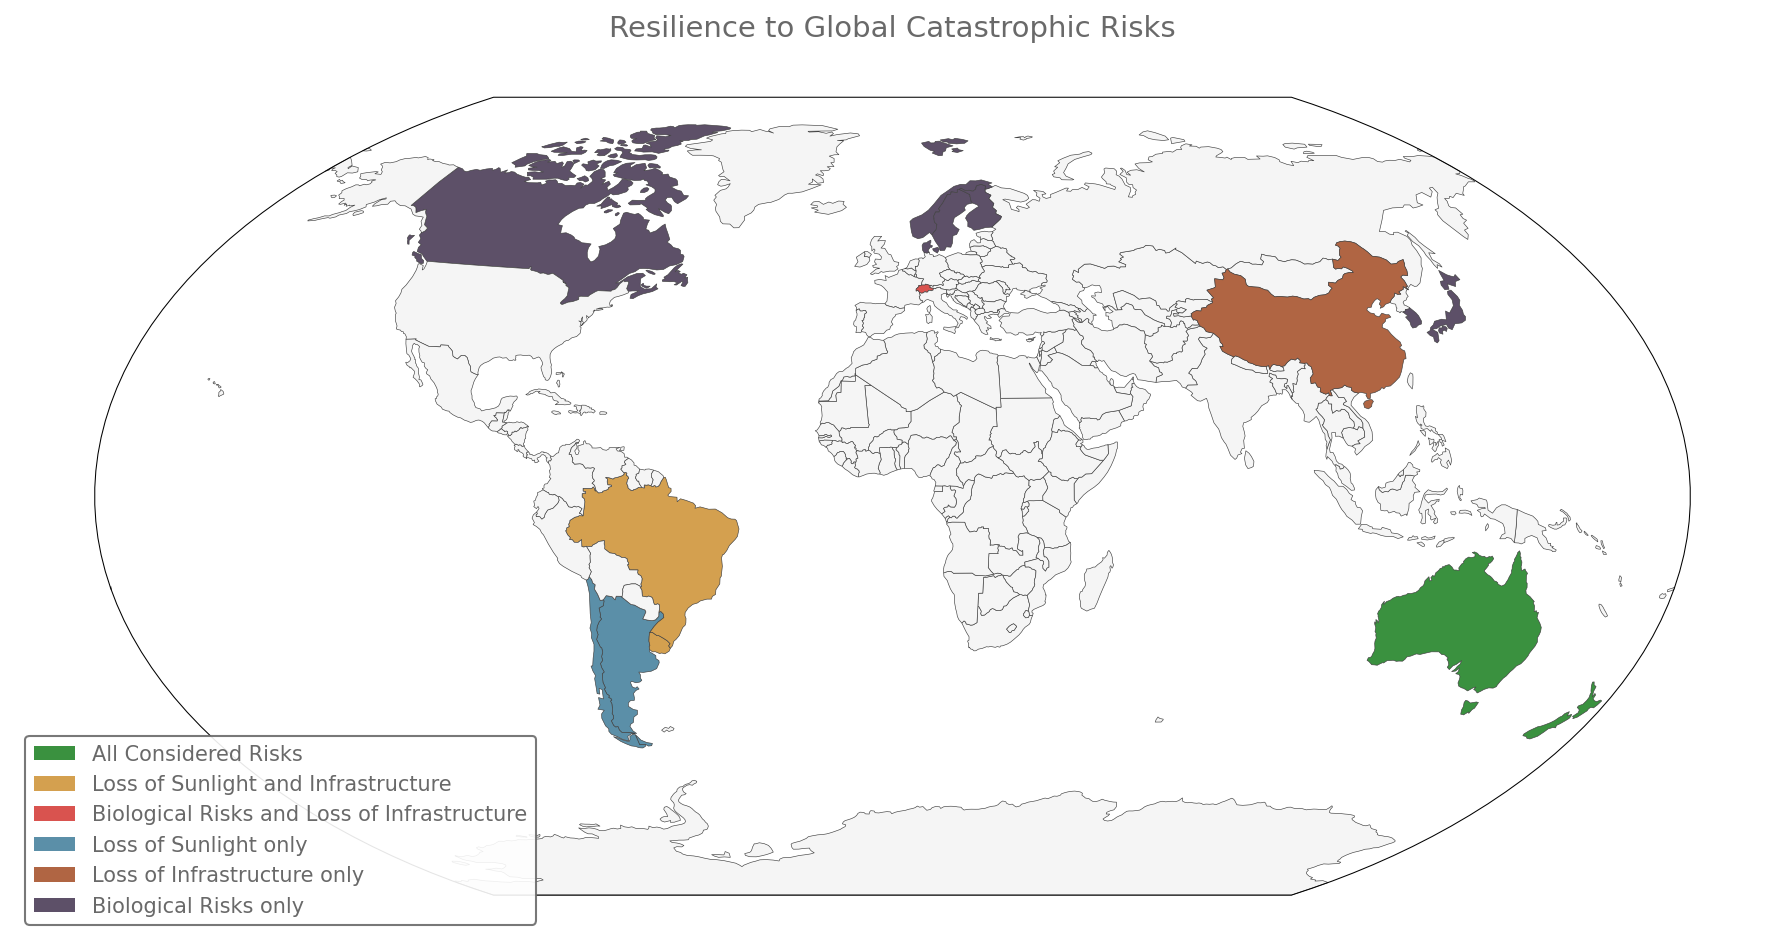
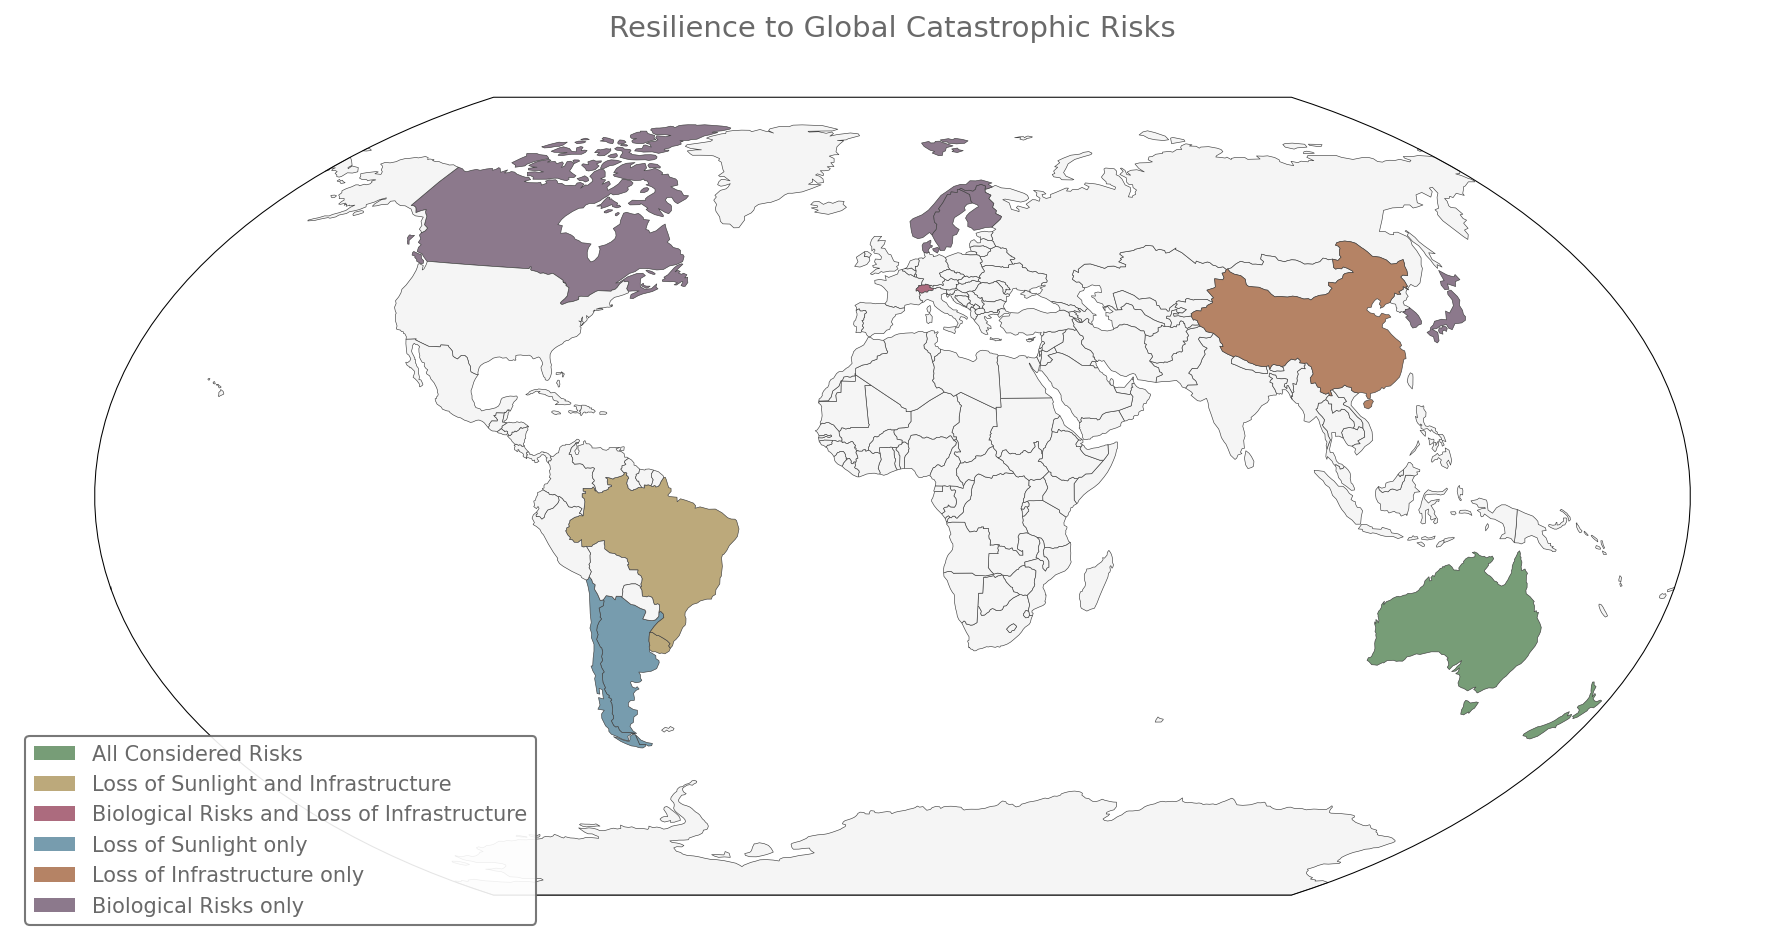
Created a military alliance map

diff --git a/src/easy_map_plotter.py b/src/easy_map_plotter.py
@@ -205,25 +205,83 @@ if __name__ == '__main__':
     gcil_only = gcil - asrs - gcbr
     gcbr_only = gcbr - asrs - gcil
     
-# Build groups dict, skipping empty sets
+    # Build groups dict, skipping empty sets
     groups = {}
     
     if all_three:
-        groups['all_three'] = (list(all_three), '#3A913F', 'All Considered Risks')
+        groups['all_three'] = (list(all_three), '#779d77', 'All Considered Risks')
     if gcil_asrs:
-        groups['gcil_asrs'] = (list(gcil_asrs), '#D4A04F', 'Loss of Sunlight and Infrastructure')
+        groups['gcil_asrs'] = (list(gcil_asrs), '#bca97b', 'Loss of Sunlight and Infrastructure')
     if gcil_gcbr:
-        groups['gcil_gcbr'] = (list(gcil_gcbr), '#D9534F', 'Biological Risks and Loss of Infrastructure')
+        groups['gcil_gcbr'] = (list(gcil_gcbr), '#ac6b7e', 'Biological Risks and Loss of Infrastructure')
     if asrs_gcbr:
-        groups['asrs_gcbr'] = (list(asrs_gcbr), '#755549', 'Biological Risks and Loss of Sunlight')
+        groups['asrs_gcbr'] = (list(asrs_gcbr), '#8d796d', 'Biological Risks and Loss of Sunlight')
     if asrs_only:
-        groups['asrs_only'] = (list(asrs_only), '#5B8FA8', 'Loss of Sunlight only')
+        groups['asrs_only'] = (list(asrs_only), '#779cae', 'Loss of Sunlight only')
     if gcil_only:
-        groups['gcil_only'] = (list(gcil_only), '#B06543', 'Loss of Infrastructure only')
+        groups['gcil_only'] = (list(gcil_only), '#b58365', 'Loss of Infrastructure only')
     if gcbr_only:
-        groups['gcbr_only'] = (list(gcbr_only), '#5D5068', 'Biological Risks only')
+        groups['gcbr_only'] = (list(gcbr_only), '#8c798c', 'Biological Risks only')
+
+
 
     wm = WorldMap()
     fig, ax = wm.plot(groups, title='Resilience to Global Catastrophic Risks')
     plt.savefig('results/figures/gcr_resilience_map.png', dpi=150, bbox_inches='tight')
+    plt.show()
+
+    # Nuclear weapon states
+    nuclear_states = {'USA', 'Russia', 'United Kingdom', 'France', 'China', 
+                     'India', 'Pakistan', 'North Korea', 'Israel'}
+    
+    # NATO members (32)
+    nato = {'Albania', 'Belgium', 'Bulgaria', 'Canada', 'Croatia', 'Czech Republic',
+            'Denmark', 'Estonia', 'Finland', 'France', 'Germany', 'Greece', 'Hungary',
+            'Iceland', 'Italy', 'Latvia', 'Lithuania', 'Luxembourg', 'Montenegro',
+            'Netherlands', 'North Macedonia', 'Norway', 'Poland', 'Portugal', 'Romania',
+            'Slovakia', 'Slovenia', 'Spain', 'Sweden', 'Turkey', 'United Kingdom', 
+            'USA'}
+    
+    # CSTO members
+    csto = {'Armenia', 'Belarus', 'Kazakhstan', 'Kyrgyzstan', 'Russia', 'Tajikistan'}
+    
+    # Non-NATO US allies with nuclear umbrella
+    us_allies_asia = {'Japan', 'South Korea', 'Australia'}
+    
+    # China-North Korea defense pact
+    china_nk = {'China', 'North Korea'}
+    
+    # Pakistan-Saudi Arabia defense pact
+    pakistan_saudi = {'Pakistan', 'Saudi Arabia'}
+    
+    # Independent nuclear states (not in major alliances)
+    independent_nuclear = nuclear_states - nato - csto - us_allies_asia - china_nk - pakistan_saudi
+    # This gives us: India, Israel
+    
+    # Build the map with ordered groups (later groups override earlier ones)
+    groups = {}
+    
+    # Start with NATO (medium blue, not too bright)
+    groups['nato'] = (list(nato), '#5B88A8', 'NATO (includes US, UK, France with nuclear weapons)')
+    
+    # CSTO (muted red) - will override for countries in both
+    groups['csto'] = (list(csto), '#A85858', 'CSTO (includes Russia with nuclear weapons)')
+    
+    # Non-NATO US allies (lighter blue)
+    groups['us_allies'] = (list(us_allies_asia), '#8FADBD', 'US allies with nuclear umbrella')
+    
+    # China-North Korea defense pact (muted purple-grey)
+    groups['china_nk'] = (list(china_nk), '#8B7B8A', 'China-North Korea defense pact, both with nuclear weapons')
+    
+    # Pakistan-Saudi Arabia defense pact (muted olive-green)
+    groups['pakistan_saudi'] = (list(pakistan_saudi), '#8B9B7A', 'Pakistan-Saudi Arabia defense pact, Pakistan with nuclear weapons')
+    
+    # Independent nuclear states (muted orange-tan)
+    groups['independent_nuclear'] = (list(independent_nuclear), '#B08860', 
+                                    'Nuclear weapon states without mutual defense agreements')
+
+    wm = WorldMap()
+    fig, ax = wm.plot(groups, title='Nuclear Weapon States and Alliances')
+    plt.savefig('results/figures/nuclear_alliances_map.png', dpi=150, bbox_inches='tight')
+    print("Map saved to nuclear_alliances_map.png")
     plt.show()
